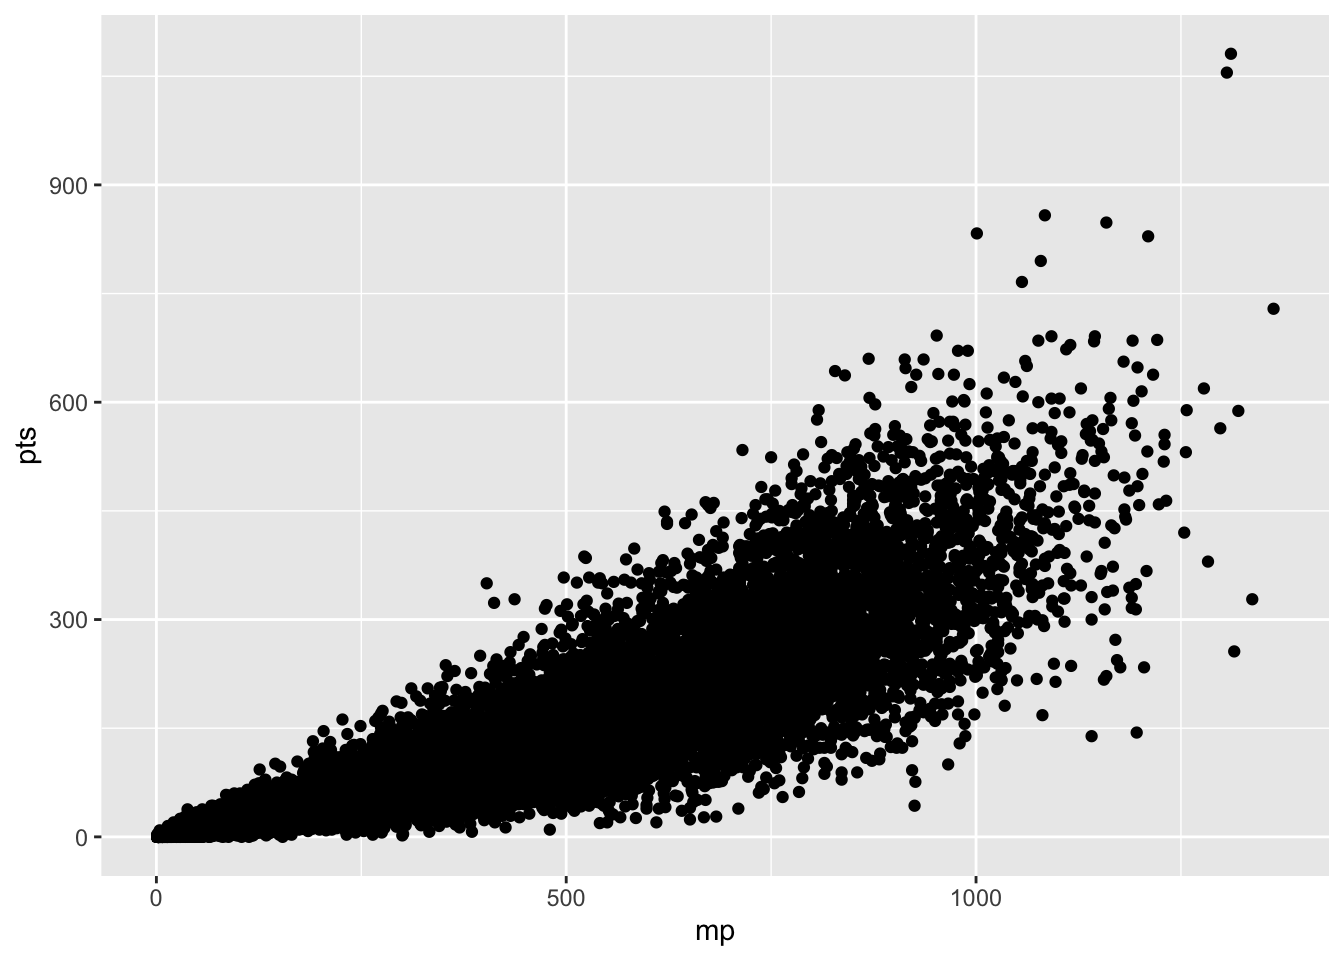
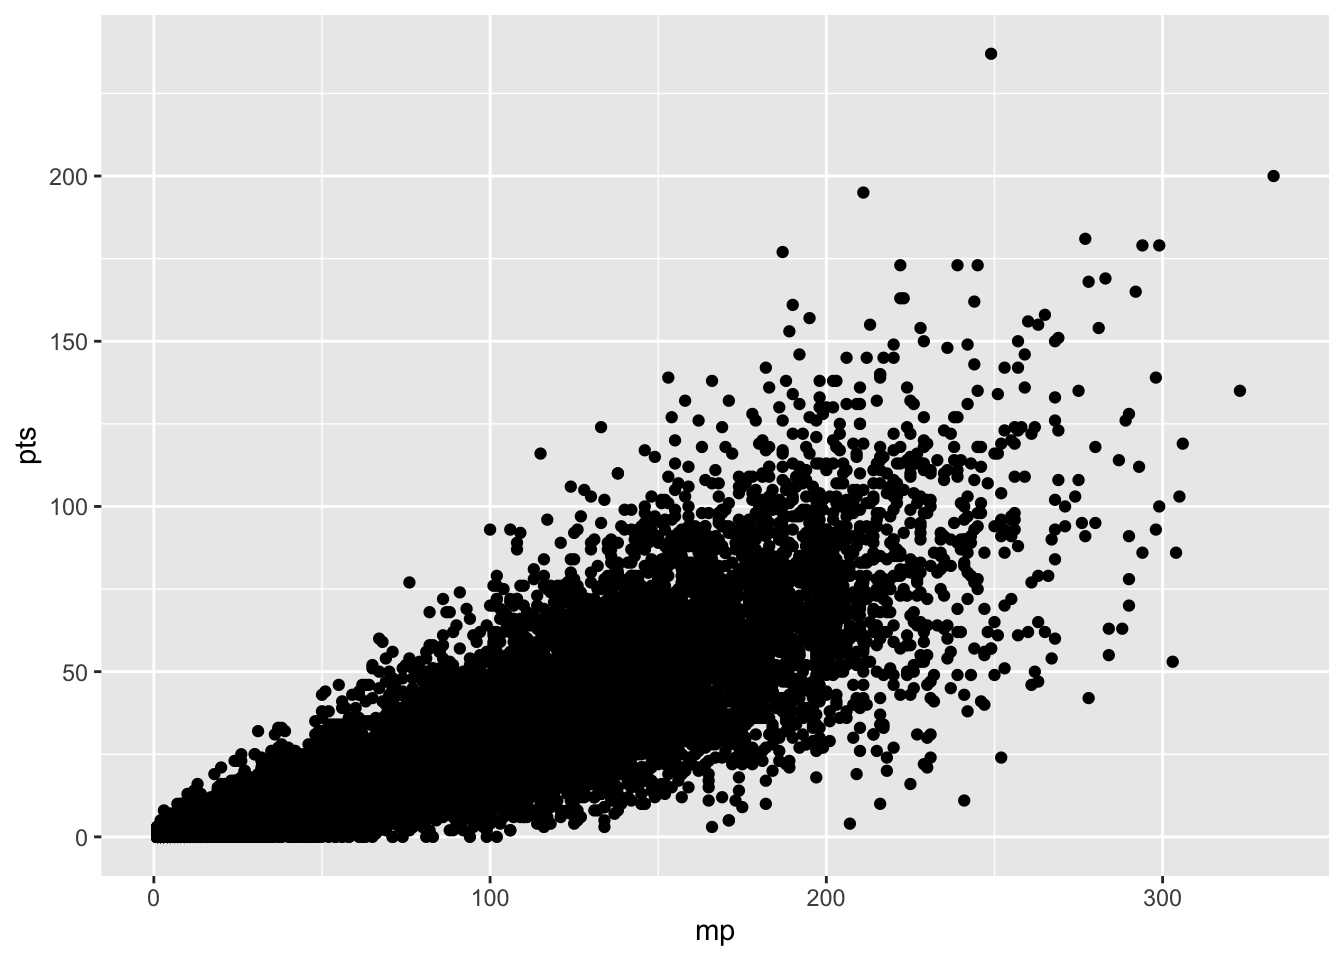
updated encircling points

diff --git a/docs/sports/encirclingpoints.html b/docs/sports/encirclingpoints.html
@@ -395,14 +395,14 @@ code span.wa { color: #60a0b0; font-weight: bold; font-style: italic; } /* Warni
 <span id="cb1-2"><a href="#cb1-2" aria-hidden="true" tabindex="-1"></a><span class="fu">library</span>(ggalt)</span></code><button title="Copy to Clipboard" class="code-copy-button"><i class="bi"></i></button></pre></div>
 </div>
 <p>Let’s say we want to highlight the top scorers in women’s college basketball. So let’s use our player data.</p>
-<pre><p><strong>For this walkthrough:</strong></p><p><a href="https://raw.githubusercontent.com/dwillis/hhs-snapshots/main/data/player_totals_20230417.csv">
+<pre><p><strong>For this walkthrough:</strong></p><p><a href="https://raw.githubusercontent.com/dwillis/hhs-snapshots/main/data/player_totals_20231130.csv">
   <button class="btn btn-danger"><i class="fa fa-save"></i> Download csv file</button>
 </a></p></pre>
 <p>And while we’re loading it, let’s filter out anyone who hasn’t played.</p>
 <div class="cell">
-<div class="sourceCode cell-code" id="cb2"><pre class="sourceCode r code-with-copy"><code class="sourceCode r"><span id="cb2-1"><a href="#cb2-1" aria-hidden="true" tabindex="-1"></a>players <span class="ot">&lt;-</span> <span class="fu">read_csv</span>(<span class="st">"https://raw.githubusercontent.com/dwillis/hhs-snapshots/main/data/player_totals_20230417.csv"</span>) <span class="sc">|&gt;</span> <span class="fu">filter</span>(mp <span class="sc">&gt;</span> <span class="dv">0</span>)</span></code><button title="Copy to Clipboard" class="code-copy-button"><i class="bi"></i></button></pre></div>
+<div class="sourceCode cell-code" id="cb2"><pre class="sourceCode r code-with-copy"><code class="sourceCode r"><span id="cb2-1"><a href="#cb2-1" aria-hidden="true" tabindex="-1"></a>players <span class="ot">&lt;-</span> <span class="fu">read_csv</span>(<span class="st">"https://raw.githubusercontent.com/dwillis/hhs-snapshots/main/data/player_totals_20231130.csv"</span>) <span class="sc">|&gt;</span> <span class="fu">filter</span>(mp <span class="sc">&gt;</span> <span class="dv">0</span>)</span></code><button title="Copy to Clipboard" class="code-copy-button"><i class="bi"></i></button></pre></div>
 <div class="cell-output cell-output-stderr">
-<pre><code>Rows: 15321 Columns: 182
+<pre><code>Rows: 14037 Columns: 182
 ── Column specification ────────────────────────────────────────────────────────
 Delimiter: ","
 chr   (5): full_name, hhs_player_id_text, rollup, source, hhs_player_id
@@ -421,9 +421,9 @@ lgl   (1): opp_ppsa
 </div>
 </div>
 <p>So we can see right away that there are some dots at the very top that we’d want to highlight. Who are these scoring machines?</p>
-<p>Like we have done in the past, let’s make a dataframe of top scorers. We’ll set the cutoff at 700 points in a season.</p>
+<p>Like we have done in the past, let’s make a dataframe of top scorers. We’ll set the cutoff at 175 points this early in the season.</p>
 <div class="cell">
-<div class="sourceCode cell-code" id="cb5"><pre class="sourceCode r code-with-copy"><code class="sourceCode r"><span id="cb5-1"><a href="#cb5-1" aria-hidden="true" tabindex="-1"></a>topscorers <span class="ot">&lt;-</span> players <span class="sc">|&gt;</span> <span class="fu">filter</span>(pts <span class="sc">&gt;</span> <span class="dv">700</span>)</span></code><button title="Copy to Clipboard" class="code-copy-button"><i class="bi"></i></button></pre></div>
+<div class="sourceCode cell-code" id="cb5"><pre class="sourceCode r code-with-copy"><code class="sourceCode r"><span id="cb5-1"><a href="#cb5-1" aria-hidden="true" tabindex="-1"></a>topscorers <span class="ot">&lt;-</span> players <span class="sc">|&gt;</span> <span class="fu">filter</span>(pts <span class="sc">&gt;</span> <span class="dv">175</span>)</span></code><button title="Copy to Clipboard" class="code-copy-button"><i class="bi"></i></button></pre></div>
 </div>
 <p>And like we’ve done in the past, we can add it to the chart with another geom_point. We’ll make all the players grey, we’ll make all the top scorers black.</p>
 <div class="cell">
@@ -470,14 +470,14 @@ lgl   (1): opp_ppsa
 <p><img src="encirclingpoints_files/figure-html/unnamed-chunk-9-1.png" class="img-fluid" width="672"></p>
 </div>
 </div>
-<p>Now let’s clean this up and make it presentable. If you look at the top scorers, four were Wooden Award finalists. So here’s what a chart telling that story might look like.</p>
+<p>Now let’s clean this up and make it presentable. If you look at the top scorers, just one - Caitlin Clark - is a Division I player. So here’s what a chart telling that story might look like.</p>
 <div class="cell">
 <div class="sourceCode cell-code" id="cb10"><pre class="sourceCode r code-with-copy"><code class="sourceCode r"><span id="cb10-1"><a href="#cb10-1" aria-hidden="true" tabindex="-1"></a><span class="fu">ggplot</span>() <span class="sc">+</span> </span>
 <span id="cb10-2"><a href="#cb10-2" aria-hidden="true" tabindex="-1"></a>  <span class="fu">geom_point</span>(<span class="at">data=</span>players, <span class="fu">aes</span>(<span class="at">x=</span>mp, <span class="at">y=</span>pts), <span class="at">color=</span><span class="st">"grey"</span>) <span class="sc">+</span> </span>
 <span id="cb10-3"><a href="#cb10-3" aria-hidden="true" tabindex="-1"></a>  <span class="fu">geom_point</span>(<span class="at">data=</span>topscorers, <span class="fu">aes</span>(<span class="at">x=</span>mp, <span class="at">y=</span>pts), <span class="at">color=</span><span class="st">"black"</span>) <span class="sc">+</span> </span>
 <span id="cb10-4"><a href="#cb10-4" aria-hidden="true" tabindex="-1"></a>  <span class="fu">geom_encircle</span>(<span class="at">data=</span>topscorers, <span class="fu">aes</span>(<span class="at">x=</span>mp, <span class="at">y=</span>pts), <span class="at">s_shape=</span>.<span class="dv">5</span>, <span class="at">expand=</span>.<span class="dv">03</span>, <span class="at">colour=</span><span class="st">"red"</span>) <span class="sc">+</span></span>
-<span id="cb10-5"><a href="#cb10-5" aria-hidden="true" tabindex="-1"></a>  <span class="fu">geom_text</span>(<span class="fu">aes</span>(<span class="at">x=</span><span class="dv">750</span>, <span class="at">y=</span><span class="dv">800</span>, <span class="at">label=</span><span class="st">"Top scorers"</span>)) <span class="sc">+</span> </span>
-<span id="cb10-6"><a href="#cb10-6" aria-hidden="true" tabindex="-1"></a>  <span class="fu">labs</span>(<span class="at">title=</span><span class="st">"Top scorers are Wooden Award candidates"</span>, <span class="at">subtitle=</span><span class="st">"Big scorers Maddy Siegrist, Caitlin Clark, Angel Reese and Aneesah Morrow among 15 finalists"</span>, <span class="at">x=</span><span class="st">"Minutes"</span>, <span class="at">y=</span><span class="st">"Points"</span>) <span class="sc">+</span> </span>
+<span id="cb10-5"><a href="#cb10-5" aria-hidden="true" tabindex="-1"></a>  <span class="fu">geom_text</span>(<span class="fu">aes</span>(<span class="at">x=</span><span class="dv">275</span>, <span class="at">y=</span><span class="dv">275</span>, <span class="at">label=</span><span class="st">"Top scorers"</span>)) <span class="sc">+</span> </span>
+<span id="cb10-6"><a href="#cb10-6" aria-hidden="true" tabindex="-1"></a>  <span class="fu">labs</span>(<span class="at">title=</span><span class="st">"Caitlin Clark Alone At Top"</span>, <span class="at">subtitle=</span><span class="st">"The Iowa star is by far the top scorer among all NCAA players"</span>, <span class="at">x=</span><span class="st">"Minutes"</span>, <span class="at">y=</span><span class="st">"Points"</span>) <span class="sc">+</span> </span>
 <span id="cb10-7"><a href="#cb10-7" aria-hidden="true" tabindex="-1"></a>  <span class="fu">theme_minimal</span>() <span class="sc">+</span> </span>
 <span id="cb10-8"><a href="#cb10-8" aria-hidden="true" tabindex="-1"></a>  <span class="fu">theme</span>(</span>
 <span id="cb10-9"><a href="#cb10-9" aria-hidden="true" tabindex="-1"></a>    <span class="at">plot.title =</span> <span class="fu">element_text</span>(<span class="at">size =</span> <span class="dv">16</span>, <span class="at">face =</span> <span class="st">"bold"</span>),</span>
@@ -495,7 +495,7 @@ lgl   (1): opp_ppsa
 <p>Works the same way – use layering and color smartly and tell the story with all your tools.</p>
 <p>Let’s grab the top three point attempt takers on the 2022-23 Maryland roster. As of now, only one will be coming back.</p>
 <div class="cell">
-<div class="sourceCode cell-code" id="cb11"><pre class="sourceCode r code-with-copy"><code class="sourceCode r"><span id="cb11-1"><a href="#cb11-1" aria-hidden="true" tabindex="-1"></a>players23 <span class="ot">&lt;-</span> <span class="fu">read_csv</span>(<span class="st">"data/players23.csv"</span>)</span></code><button title="Copy to Clipboard" class="code-copy-button"><i class="bi"></i></button></pre></div>
+<div class="sourceCode cell-code" id="cb11"><pre class="sourceCode r code-with-copy"><code class="sourceCode r"><span id="cb11-1"><a href="#cb11-1" aria-hidden="true" tabindex="-1"></a>players23 <span class="ot">&lt;-</span> <span class="fu">read_csv</span>(<span class="st">"https://thescoop.org/sports-data-files/players23.csv"</span>)</span></code><button title="Copy to Clipboard" class="code-copy-button"><i class="bi"></i></button></pre></div>
 <div class="cell-output cell-output-stderr">
 <pre><code>Rows: 5681 Columns: 59
 ── Column specification ────────────────────────────────────────────────────────
